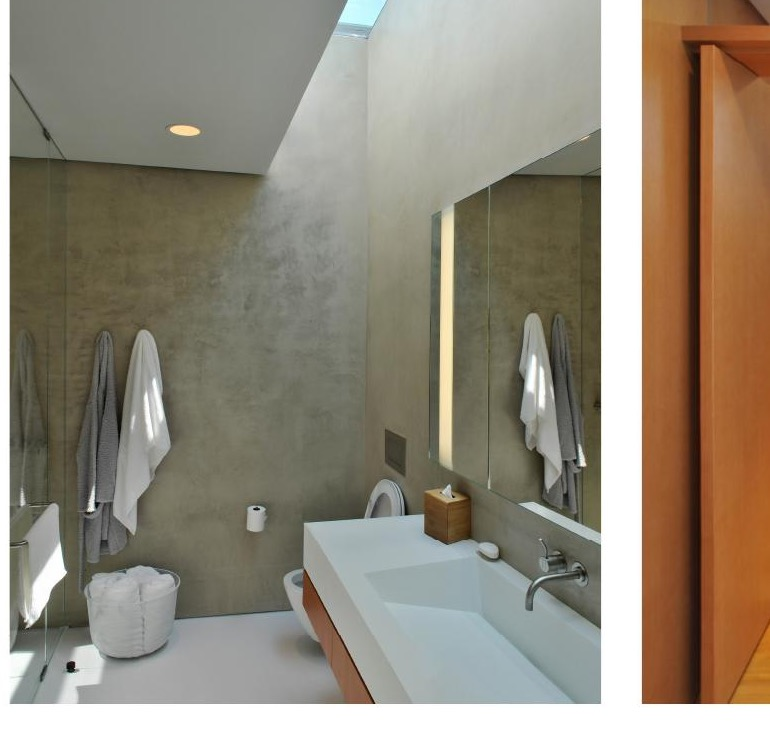
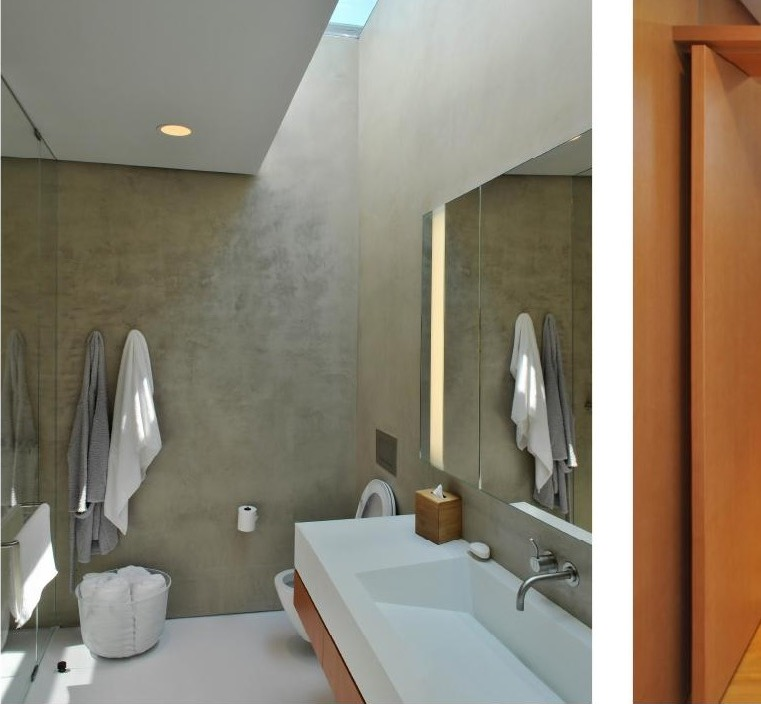
Add gallery scroll animations and crop remaining image borders
- Create GalleryImage client component with Framer Motion whileInView
  fade-in + scale animation for gallery page
- Update gallery page to use GalleryImage with correct post-crop dimensions
- Crop black/white borders from blue-ridge-house/03.jpg, cascade-house/01-03.jpg

diff --git a/app/gallery/page.tsx b/app/gallery/page.tsx
@@ -1,47 +1,38 @@
 import type { Metadata } from "next";
-import Image from "next/image";
+import GalleryImage from "@/components/gallery/GalleryImage";
 
 export const metadata: Metadata = { title: "Gallery" };
 
-// All project photography — no captions, no context, images only.
 const images = [
-  { src: "/images/projects/blue-ridge-house/hero.jpg",    alt: "Blue Ridge House exterior terrace",         aspect: "landscape" },
-  { src: "/images/projects/cascade-house/hero.jpg",       alt: "Cascade House at dusk",                    aspect: "landscape" },
-  { src: "/images/hero/hero-3.jpg",                       alt: "Blue Ridge House above the clouds",        aspect: "landscape" },
-  { src: "/images/projects/birmingham-house/01.jpg",      alt: "Birmingham House roof under construction", aspect: "landscape" },
-  { src: "/images/projects/cascade-house/01.jpg",         alt: "Cascade House bathroom and detail",        aspect: "square"    },
-  { src: "/images/projects/blue-ridge-house/02.jpg",      alt: "Blue Ridge House from the forest",         aspect: "landscape" },
-  { src: "/images/projects/birmingham-house/hero.jpg",    alt: "Birmingham House courtyard",               aspect: "landscape" },
-  { src: "/images/projects/cascade-house/02.jpg",         alt: "Cascade House corridor and study",         aspect: "square"    },
-  { src: "/images/projects/blue-ridge-house/03.jpg",      alt: "Blue Ridge House deck with mountain view", aspect: "landscape" },
-  { src: "/images/projects/birmingham-house/02.jpg",      alt: "Birmingham House staircase",               aspect: "landscape" },
-  { src: "/images/projects/cascade-house/03.jpg",         alt: "Cascade House entry",                      aspect: "landscape" },
-  { src: "/images/projects/birmingham-house/03.jpg",      alt: "Birmingham House stone wall",              aspect: "landscape" },
-  { src: "/images/projects/blue-ridge-house/01.jpg",      alt: "Blue Ridge House sunrise",                 aspect: "landscape" },
+  { src: "/images/projects/blue-ridge-house/hero.jpg",    alt: "Blue Ridge House exterior terrace",         w: 1836, h: 1350 },
+  { src: "/images/projects/cascade-house/hero.jpg",       alt: "Cascade House at dusk",                    w: 1840, h: 1092 },
+  { src: "/images/hero/hero-3.jpg",                       alt: "Blue Ridge House above the clouds",        w: 2400, h: 1350 },
+  { src: "/images/projects/birmingham-house/01.jpg",      alt: "Birmingham House roof under construction", w: 1296, h: 972  },
+  { src: "/images/projects/cascade-house/01.jpg",         alt: "Cascade House bathroom and detail",        w: 761,  h: 704  },
+  { src: "/images/projects/blue-ridge-house/02.jpg",      alt: "Blue Ridge House from the forest",         w: 2400, h: 1350 },
+  { src: "/images/projects/birmingham-house/hero.jpg",    alt: "Birmingham House courtyard",               w: 2400, h: 1056 },
+  { src: "/images/projects/cascade-house/02.jpg",         alt: "Cascade House corridor and study",         w: 770,  h: 705  },
+  { src: "/images/projects/blue-ridge-house/03.jpg",      alt: "Blue Ridge House deck with mountain view", w: 1333, h: 1350 },
+  { src: "/images/projects/birmingham-house/02.jpg",      alt: "Birmingham House staircase",               w: 2265, h: 1508 },
+  { src: "/images/projects/cascade-house/03.jpg",         alt: "Cascade House entry",                      w: 450,  h: 703  },
+  { src: "/images/projects/birmingham-house/03.jpg",      alt: "Birmingham House stone wall",              w: 1296, h: 972  },
+  { src: "/images/projects/blue-ridge-house/01.jpg",      alt: "Blue Ridge House sunrise",                 w: 2400, h: 1350 },
 ];
 
 export default function GalleryPage() {
   return (
     <div className="pt-16">
-      <div
-        className="columns-1 md:columns-2 xl:columns-3 gap-1"
-        style={{ columnFill: "balance" }}
-      >
+      <div className="columns-1 md:columns-2 xl:columns-3 gap-1" style={{ columnFill: "balance" }}>
         {images.map((img, i) => (
-          <div
-            key={i}
-            className="break-inside-avoid mb-1 relative overflow-hidden"
-          >
-            <Image
-              src={img.src}
-              alt={img.alt}
-              width={1200}
-              height={img.aspect === "square" ? 900 : 800}
-              className="w-full h-auto block"
-              sizes="(min-width: 1280px) 33vw, (min-width: 768px) 50vw, 100vw"
-              priority={i < 3}
-            />
-          </div>
+          <GalleryImage
+            key={img.src}
+            src={img.src}
+            alt={img.alt}
+            width={img.w}
+            height={img.h}
+            priority={i < 3}
+            index={i}
+          />
         ))}
       </div>
     </div>

diff --git a/components/gallery/GalleryImage.tsx b/components/gallery/GalleryImage.tsx
@@ -1,0 +1,39 @@
+"use client";
+
+import Image from "next/image";
+import { motion } from "framer-motion";
+
+interface Props {
+  src: string;
+  alt: string;
+  width: number;
+  height: number;
+  priority?: boolean;
+  index: number;
+}
+
+export default function GalleryImage({ src, alt, width, height, priority, index }: Props) {
+  return (
+    <motion.div
+      className="break-inside-avoid mb-1 overflow-hidden"
+      initial={{ opacity: 0, y: 40, scale: 0.97 }}
+      whileInView={{ opacity: 1, y: 0, scale: 1 }}
+      viewport={{ once: true, margin: "-60px" }}
+      transition={{
+        duration: 0.6,
+        ease: [0.22, 1, 0.36, 1],
+        delay: (index % 3) * 0.07,
+      }}
+    >
+      <Image
+        src={src}
+        alt={alt}
+        width={width}
+        height={height}
+        className="w-full h-auto block"
+        sizes="(min-width: 1280px) 33vw, (min-width: 768px) 50vw, 100vw"
+        priority={priority}
+      />
+    </motion.div>
+  );
+}
